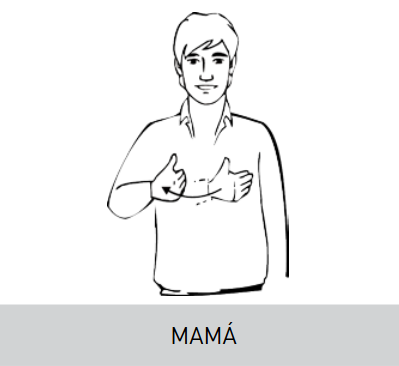
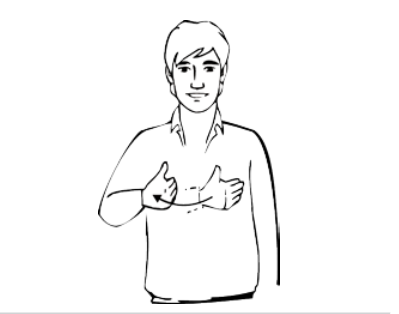
[Delivers #186222381] Edit images and charge the data-base

Changed region(s): [[0.0, 0.0287, 1.0, 1.0], [0.2707, 0.7166, 0.3008, 0.7452]]

diff --git a/proyecto/add_questions.rb b/proyecto/add_questions.rb
@@ -18,6 +18,8 @@ def add_questions
     { question: 'Esta seña es la letra I', answer: true, content_link: '/images/letraI.png', module_id: 1 },
     { question: 'La letra "V" solo tiene una variante y es la que se ve en pantalla', answer: false, content_link: '/images/letraU.png', module_id: 1 },
     { question: 'Esta seña corresponde a la letra E', answer: false, content_link: '/images/letraE.png', module_id: 1 },
+    { question: 'Esta seña representa mamá', answer: true, content_link: '/images/mama.png', module_id: 2 },
+    { question: 'Basta de bromas, esto es serio. Asi se dice abuelo/a', answer: true, content_link: '/images/abuelos.png', module_id: 2 }
   ]
 
   questions_data.each do |data|
